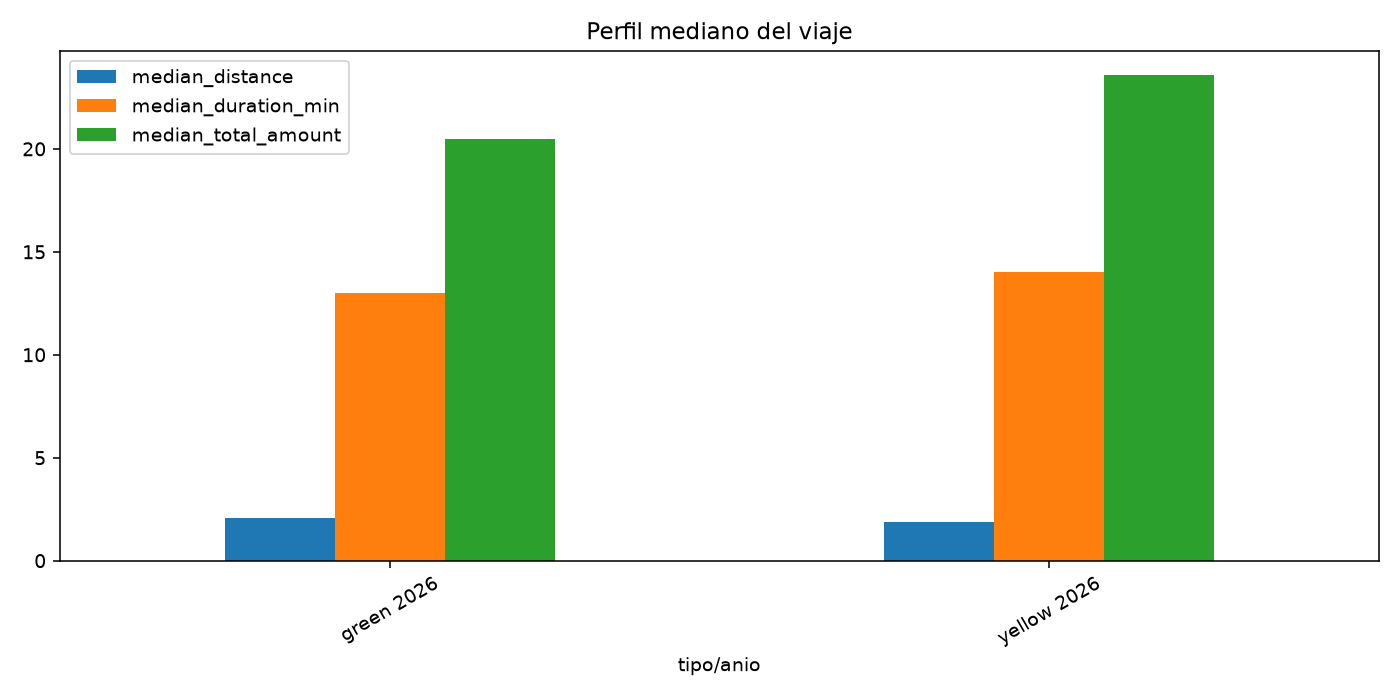
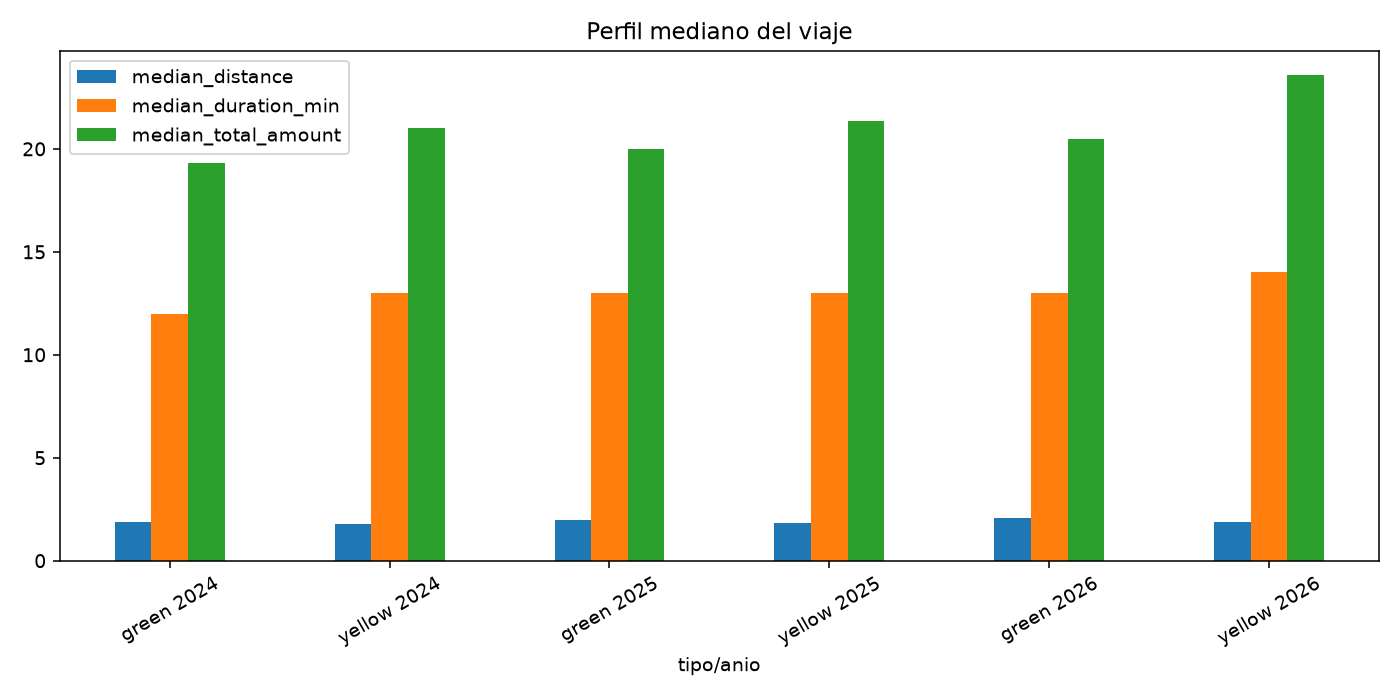
ejercicio 8

diff --git a/scripts/download_data.py b/scripts/download_data.py
@@ -8,11 +8,11 @@ Fuente oficial de los datos:
     https://www.nyc.gov/site/tlc/about/tlc-trip-record-data.page
 
 Uso:
-    python scripts/download_data.py                 # 2024 y 2026, amarillos y verdes
+    python scripts/download_data.py                 # 2024, 2025 y 2026, amarillos y verdes
     python scripts/download_data.py --taxi yellow
     python scripts/download_data.py --taxi green
     python scripts/download_data.py --years 2026
-    python scripts/download_data.py --years 2024 2026
+    python scripts/download_data.py --years 2024 2025 2026
 
 Los archivos se guardan en:
     data/raw/<tipo>/<anio>/<nombre-original>.parquet
@@ -32,7 +32,7 @@ from pathlib import Path
 
 import requests
 
-ANIOS = (2024, 2026)
+ANIOS = (2024, 2025, 2026)
 TIPOS_TAXI = ("yellow", "green")
 URL_BASE = "https://d37ci6vzurychx.cloudfront.net/trip-data"
 DIR_DESTINO = Path("data/raw")
@@ -147,7 +147,7 @@ def main() -> int:
     )
     parser.add_argument(
         "--years", nargs="+", type=int, default=list(ANIOS),
-        help="anios a descargar (por defecto: 2024 2026)",
+        help="anios a descargar (por defecto: 2024 2025 2026)",
     )
     argumentos = parser.parse_args()
 

diff --git a/docs/exercise8_results.md b/docs/exercise8_results.md
@@ -1,0 +1,73 @@
+# Ejercicio 8 - Resultados 2024, 2025 y 2026
+
+Este documento fue generado despues de incorporar 2025 y volver a ejecutar las consultas sobre todos los Parquet disponibles.
+
+## Archivos incorporados
+
+| taxi_type | file_year | files | rows |
+| --- | --- | --- | --- |
+| green | 2024 | 12 | 660218 |
+| green | 2025 | 12 | 591375 |
+| green | 2026 | 8 | 337114 |
+| yellow | 2024 | 12 | 41169720 |
+| yellow | 2025 | 12 | 48722602 |
+| yellow | 2026 | 8 | 29703355 |
+
+Total local: **64 archivos Parquet**.
+
+## Indicadores anuales actualizados
+
+| taxi_type | file_year | trips | avg_total_amount | median_total_amount | avg_distance | median_distance | median_duration_min | pct_card_payment | pct_zero_distance | pct_negative_total |
+| --- | --- | --- | --- | --- | --- | --- | --- | --- | --- | --- |
+| green | 2024 | 660196 | 24.26 | 19.32 | 17.02 | 1.87 | 12.0 | 68.87 | 5.24 | 0.33 |
+| green | 2025 | 591351 | 25.21 | 20.0 | 19.02 | 1.98 | 13.0 | 68.76 | 4.13 | 0.3 |
+| green | 2026 | 337095 | 25.49 | 20.46 | 13.35 | 2.07 | 13.0 | 65.26 | 3.62 | 0.3 |
+| yellow | 2024 | 41168533 | 27.83 | 21.0 | 4.98 | 1.76 | 13.0 | 73.97 | 1.89 | 1.48 |
+| yellow | 2025 | 48721089 | 26.91 | 21.35 | 6.84 | 1.85 | 13.0 | 63.74 | 2.88 | 2.0 |
+| yellow | 2026 | 29703330 | 30.07 | 23.58 | 5.55 | 1.86 | 14.0 | 63.77 | 3.21 | 0.54 |
+
+## Cambios porcentuales anuales
+
+| taxi_type | file_year | trips | avg_total_amount | pct_change_trips | pct_change_avg_total |
+| --- | --- | --- | --- | --- | --- |
+| green | 2024 | 660198 | 24.26 | N/A | N/A |
+| green | 2025 | 591354 | 25.21 | -10.43 | 3.88 |
+| green | 2026 | 337100 | 25.49 | -43.0 | 1.13 |
+| yellow | 2024 | 41169664 | 27.83 | N/A | N/A |
+| yellow | 2025 | 48722573 | 26.91 | 18.35 | -3.32 |
+| yellow | 2026 | 29703338 | 30.07 | -39.04 | 11.75 |
+
+## Horas principales de actividad
+
+| taxi_type | file_year | pickup_hour | trips |
+| --- | --- | --- | --- |
+| green | 2024 | 17 | 53585 |
+| green | 2024 | 18 | 51352 |
+| green | 2024 | 16 | 49414 |
+| green | 2025 | 17 | 47122 |
+| green | 2025 | 18 | 44410 |
+| green | 2025 | 16 | 44287 |
+| green | 2026 | 17 | 26233 |
+| green | 2026 | 16 | 25328 |
+| green | 2026 | 18 | 24714 |
+| yellow | 2024 | 18 | 2955735 |
+| yellow | 2024 | 17 | 2813259 |
+| yellow | 2024 | 19 | 2598187 |
+| yellow | 2025 | 18 | 3473209 |
+| yellow | 2025 | 17 | 3291155 |
+| yellow | 2025 | 19 | 3071607 |
+| yellow | 2026 | 18 | 2091003 |
+| yellow | 2026 | 17 | 1997781 |
+| yellow | 2026 | 19 | 1840897 |
+
+## Patrones observados
+
+1. **El volumen de taxis amarillos aumenta de 2024 a 2025**: pasa de 41,168,533 a 48,721,089 viajes validos. En 2026 hay 29,703,330, pero ese anio solo tiene datos publicados hasta agosto, por lo que no es comparable como anio completo.
+2. **Los taxis verdes disminuyen en 2025 frente a 2024**: pasan de 660,196 a 591,351 viajes validos. Esto refuerza la necesidad de analizar `yellow` y `green` por separado.
+3. **El monto promedio crece en ambos tipos entre 2024 y 2026**: yellow pasa de 27.83 a 30.07; green pasa de 24.26 a 25.49.
+4. **Las horas de mayor actividad se mantienen en la tarde/noche temprana**, especialmente entre 16:00 y 19:00 para ambos tipos de taxi.
+5. **Los problemas de calidad permanecen presentes en los tres anios**, principalmente distancias cero y montos negativos. Por eso los indicadores finales conservan metricas de control de calidad.
+
+## Actualizacion del tablero
+
+El script `scripts/generate_indicators.py` fue ejecutado nuevamente despues de descargar 2024 y 2025. Las figuras actualizadas se encuentran en `docs/figures/` y el resumen del tablero esta en `docs/exercise7_dashboard_results.md`.

diff --git a/docs/exercise8_full_analysis.md b/docs/exercise8_full_analysis.md
@@ -1,0 +1,101 @@
+# Ejercicio 8 - Incorporacion de 2025 y analisis completo
+
+Este ejercicio amplia el flujo para trabajar con taxis amarillos y verdes de 2024, 2025 y 2026.
+
+## Cambios realizados
+
+- `scripts/download_data.py` ahora incluye por defecto los anios `2024`, `2025` y `2026`.
+- Las rutas siguen la estructura `data/raw/<tipo>/<anio>/`.
+- El script conserva el comportamiento incremental: si un archivo existe localmente y tiene tamano mayor que cero, no se descarga nuevamente.
+- Las consultas usan patrones `**/*.parquet` para incorporar automaticamente nuevos anios.
+
+## Comando de descarga
+
+```bash
+docker compose exec lab python scripts/download_data.py --years 2024 2025 2026
+```
+
+Tambien puede usarse el valor por defecto:
+
+```bash
+docker compose exec lab python scripts/download_data.py
+```
+
+## Resultado de la descarga incremental
+
+Al ejecutar el comando con `--years 2024 2025 2026` sobre el estado local que ya contenia 2026:
+
+- 48 archivos nuevos descargados para 2024 y 2025.
+- 16 archivos de 2026 omitidos porque ya existian.
+- 8 archivos de 2026 no publicados por la TLC al momento de la ejecucion.
+- 0 archivos fallidos.
+
+Una segunda ejecucion valido el comportamiento incremental:
+
+- 0 archivos descargados.
+- 64 archivos omitidos porque ya existian.
+- 8 archivos de 2026 no publicados.
+- 0 archivos fallidos.
+
+Archivos locales disponibles despues de la incorporacion:
+
+| taxi_type | anio | archivos |
+|---|---:|---:|
+| green | 2024 | 12 |
+| green | 2025 | 12 |
+| green | 2026 | 8 |
+| yellow | 2024 | 12 |
+| yellow | 2025 | 12 |
+| yellow | 2026 | 8 |
+
+Total: 64 archivos Parquet locales.
+
+## Consultas de validacion
+
+Archivo SQL asociado:
+
+```text
+sql/exercise8_full_2024_2025_2026_analysis.sql
+```
+
+Las consultas validan:
+
+1. archivos y filas por tipo de taxi y anio;
+2. consulta conjunta de 2024, 2025 y 2026;
+3. volumen mensual actualizado;
+4. evolucion anual de viajes, montos, distancias, duraciones y calidad;
+5. cambios porcentuales anuales;
+6. horas de mayor actividad por tipo de taxi y anio.
+
+Los resultados obtenidos despues de ejecutar la descarga y las consultas estan en:
+
+```text
+docs/exercise8_results.md
+```
+
+## Actualizacion de indicadores
+
+El script del Ejercicio 7 (`scripts/generate_indicators.py`) no necesita cambios adicionales,
+porque lee todos los Parquet disponibles con patrones recursivos. Despues de descargar 2025,
+se regenera el tablero con:
+
+```bash
+docker compose exec lab python scripts/generate_indicators.py
+```
+
+## Patrones analizados
+
+Al considerar 2024, 2025 y 2026 de manera conjunta, se documentaron estos cambios en
+`docs/exercise8_results.md`:
+
+1. evolucion del volumen anual por tipo de taxi;
+2. cambios en el monto promedio y mediano por viaje;
+3. estabilidad o cambio de las horas de mayor actividad;
+4. diferencias en el uso de pagos con tarjeta;
+5. variacion en las tasas de inconsistencias como distancia cero o montos negativos.
+
+## Nota de reproducibilidad
+
+Los datos descargados no se versionan en Git. Para reproducir este ejercicio desde cero, basta
+con levantar Docker, ejecutar el script de descarga y luego ejecutar las consultas SQL o el script
+de indicadores.

diff --git a/README.md b/README.md
@@ -246,7 +246,7 @@ python -c "from pathlib import Path; files=sorted(Path('data/raw').glob('**/*.pa
 
 El conjunto descargado se considero completo para Fase 1 porque el script consulta los 12 meses de 2026 para ambos tipos de taxi y distingue entre archivos publicados, existentes, no publicados y fallidos. Al momento de la verificacion, la TLC solo tenia publicados enero-agosto de 2026 para ambos tipos, por lo que esos 16 archivos representan todos los archivos disponibles en la fuente original.
 
-Ejercicio 5: incorporacion incremental de 2024.
+Ejercicio 5: incorporacion incremental de 2024 y ampliacion posterior a 2025.
 
 El script ahora acepta multiples anios mediante `--years`. Para descargar 2024 y conservar 2026:
 
@@ -254,10 +254,18 @@ El script ahora acepta multiples anios mediante `--years`. Para descargar 2024 y
 python scripts/download_data.py --years 2024 2026
 ```
 
-El valor por defecto actual equivale a descargar 2024 y 2026:
+El valor por defecto actual equivale a descargar 2024, 2025 y 2026:
 
 ```bash
 python scripts/download_data.py
+```
+
+Ejercicio 8: incorporacion de 2025.
+
+Para trabajar con los tres anios requeridos en la entrega final:
+
+```bash
+python scripts/download_data.py --years 2024 2025 2026
 ```
 
 Resultado de la descarga incremental del Ejercicio 5:
@@ -342,6 +350,27 @@ Para validar que DuckDB puede consultar 2024 y 2026 conjuntamente:
 docker compose exec lab python -c "import duckdb; from pathlib import Path; con=duckdb.connect(); con.execute(Path('/workspace/sql/exercise5_incremental_2024_validation.sql').read_text()); print('SQL ejercicio 5 ejecutado correctamente')"
 ```
 
+Ejercicio 8: incorporacion de 2025 y analisis completo 2024-2026.
+
+Archivo SQL:
+
+```text
+sql/exercise8_full_2024_2025_2026_analysis.sql
+```
+
+Documentacion:
+
+```text
+docs/exercise8_full_analysis.md
+docs/exercise8_results.md
+```
+
+Para validar el analisis conjunto de 2024, 2025 y 2026:
+
+```bash
+docker compose exec lab python -c "import duckdb; from pathlib import Path; con=duckdb.connect(); con.execute(Path('/workspace/sql/exercise8_full_2024_2025_2026_analysis.sql').read_text()); print('SQL ejercicio 8 ejecutado correctamente')"
+```
+
 ## Como reproducir los benchmarks
 
 Ejercicio 6: comparacion entre consultas directas sobre Parquet y una tabla
@@ -413,6 +442,9 @@ Para generar los indicadores, tablas derivadas y figuras:
 ```bash
 docker compose exec lab python scripts/generate_indicators.py
 ```
+
+Despues de incorporar 2025, vuelva a ejecutar ese comando para actualizar las
+visualizaciones a los tres anios disponibles.
 
 El script genera:
 

diff --git a/docs/exercise7_dashboard_results.md b/docs/exercise7_dashboard_results.md
@@ -47,13 +47,17 @@ Las consultas fuente estan documentadas en `sql/exercise7_indicators.sql`.
 
 ## Resultados principales
 
-El mayor volumen mensual observado fue para `yellow` en `2026-05`, con `4,090,824` viajes.
-El metodo de pago mas frecuente por conteo fue `payment_type = 1` para `yellow` 2026.
+El mayor volumen mensual observado fue para `yellow` en `2025-05`, con `4,591,844` viajes.
+El metodo de pago mas frecuente por conteo fue `payment_type = 1` para `yellow` 2025.
 
 ### Perfil tipico de viajes
 
 | taxi_type | file_year | trips | median_distance | median_duration_min | median_total_amount | avg_distance | avg_duration_min | avg_total_amount |
 | --- | --- | --- | --- | --- | --- | --- | --- | --- |
+| green | 2024 | 660196 | 1.87 | 12.0 | 19.32 | 17.02 | 19.63 | 24.26 |
+| yellow | 2024 | 41168533 | 1.76 | 13.0 | 21.0 | 4.98 | 17.47 | 27.83 |
+| green | 2025 | 591351 | 1.98 | 13.0 | 20.0 | 19.02 | 21.0 | 25.21 |
+| yellow | 2025 | 48721089 | 1.85 | 13.0 | 21.35 | 6.84 | 17.36 | 26.91 |
 | green | 2026 | 337095 | 2.07 | 13.0 | 20.46 | 13.35 | 20.78 | 25.49 |
 | yellow | 2026 | 29703330 | 1.86 | 14.0 | 23.58 | 5.55 | 17.66 | 30.07 |
 
@@ -61,6 +65,10 @@ El metodo de pago mas frecuente por conteo fue `payment_type = 1` para `yellow` 
 
 | taxi_type | file_year | card_trips | avg_tip | median_tip | avg_tip_to_fare_ratio |
 | --- | --- | --- | --- | --- | --- |
+| green | 2024 | 454545 | 3.55 | 3.0 | 0.223 |
+| yellow | 2024 | 30451054 | 4.37 | 3.25 | 0.262 |
+| green | 2025 | 406555 | 3.69 | 3.0 | 0.229 |
+| yellow | 2025 | 31052479 | 4.34 | 3.3 | 0.265 |
 | green | 2026 | 219837 | 3.84 | 3.08 | 0.256 |
 | yellow | 2026 | 18937396 | 4.28 | 3.29 | 0.254 |
 
@@ -68,6 +76,10 @@ El metodo de pago mas frecuente por conteo fue `payment_type = 1` para `yellow` 
 
 | taxi_type | file_year | trips | pct_zero_distance | pct_negative_total | pct_negative_duration | pct_duration_over_4h | pct_distance_over_100_miles | pct_total_over_500 |
 | --- | --- | --- | --- | --- | --- | --- | --- | --- |
+| green | 2024 | 660198 | 5.24 | 0.33 | 0.0003 | 0.43 | 0.0356 | 0.0055 |
+| yellow | 2024 | 41169664 | 1.89 | 1.48 | 0.0027 | 0.06 | 0.0039 | 0.002 |
+| green | 2025 | 591354 | 4.13 | 0.3 | 0.0005 | 0.44 | 0.0353 | 0.0046 |
+| yellow | 2025 | 48722573 | 2.88 | 2.0 | 0.003 | 0.03 | 0.0059 | 0.0025 |
 | green | 2026 | 337100 | 3.62 | 0.3 | 0.0015 | 0.36 | 0.0214 | 0.0062 |
 | yellow | 2026 | 29703338 | 3.21 | 0.54 | 0.0 | 0.03 | 0.0041 | 0.0027 |
 

diff --git a/docs/exercise5_incremental_2024.md b/docs/exercise5_incremental_2024.md
@@ -17,7 +17,7 @@ python scripts/download_data.py --years 2024 2026
 python scripts/download_data.py --taxi yellow --years 2024
 ```
 
-El valor por defecto actual descarga `2024` y `2026` para taxis `yellow` y `green`. El script conserva el comportamiento incremental: si un archivo ya existe localmente y tiene tamano mayor a cero, no se descarga de nuevo.
+El valor por defecto final del laboratorio descarga `2024`, `2025` y `2026` para taxis `yellow` y `green`. Para reproducir solamente este ejercicio puede usarse `--years 2024 2026`. El script conserva el comportamiento incremental: si un archivo ya existe localmente y tiene tamano mayor a cero, no se descarga de nuevo.
 
 ## Resultado de la descarga incremental
 
